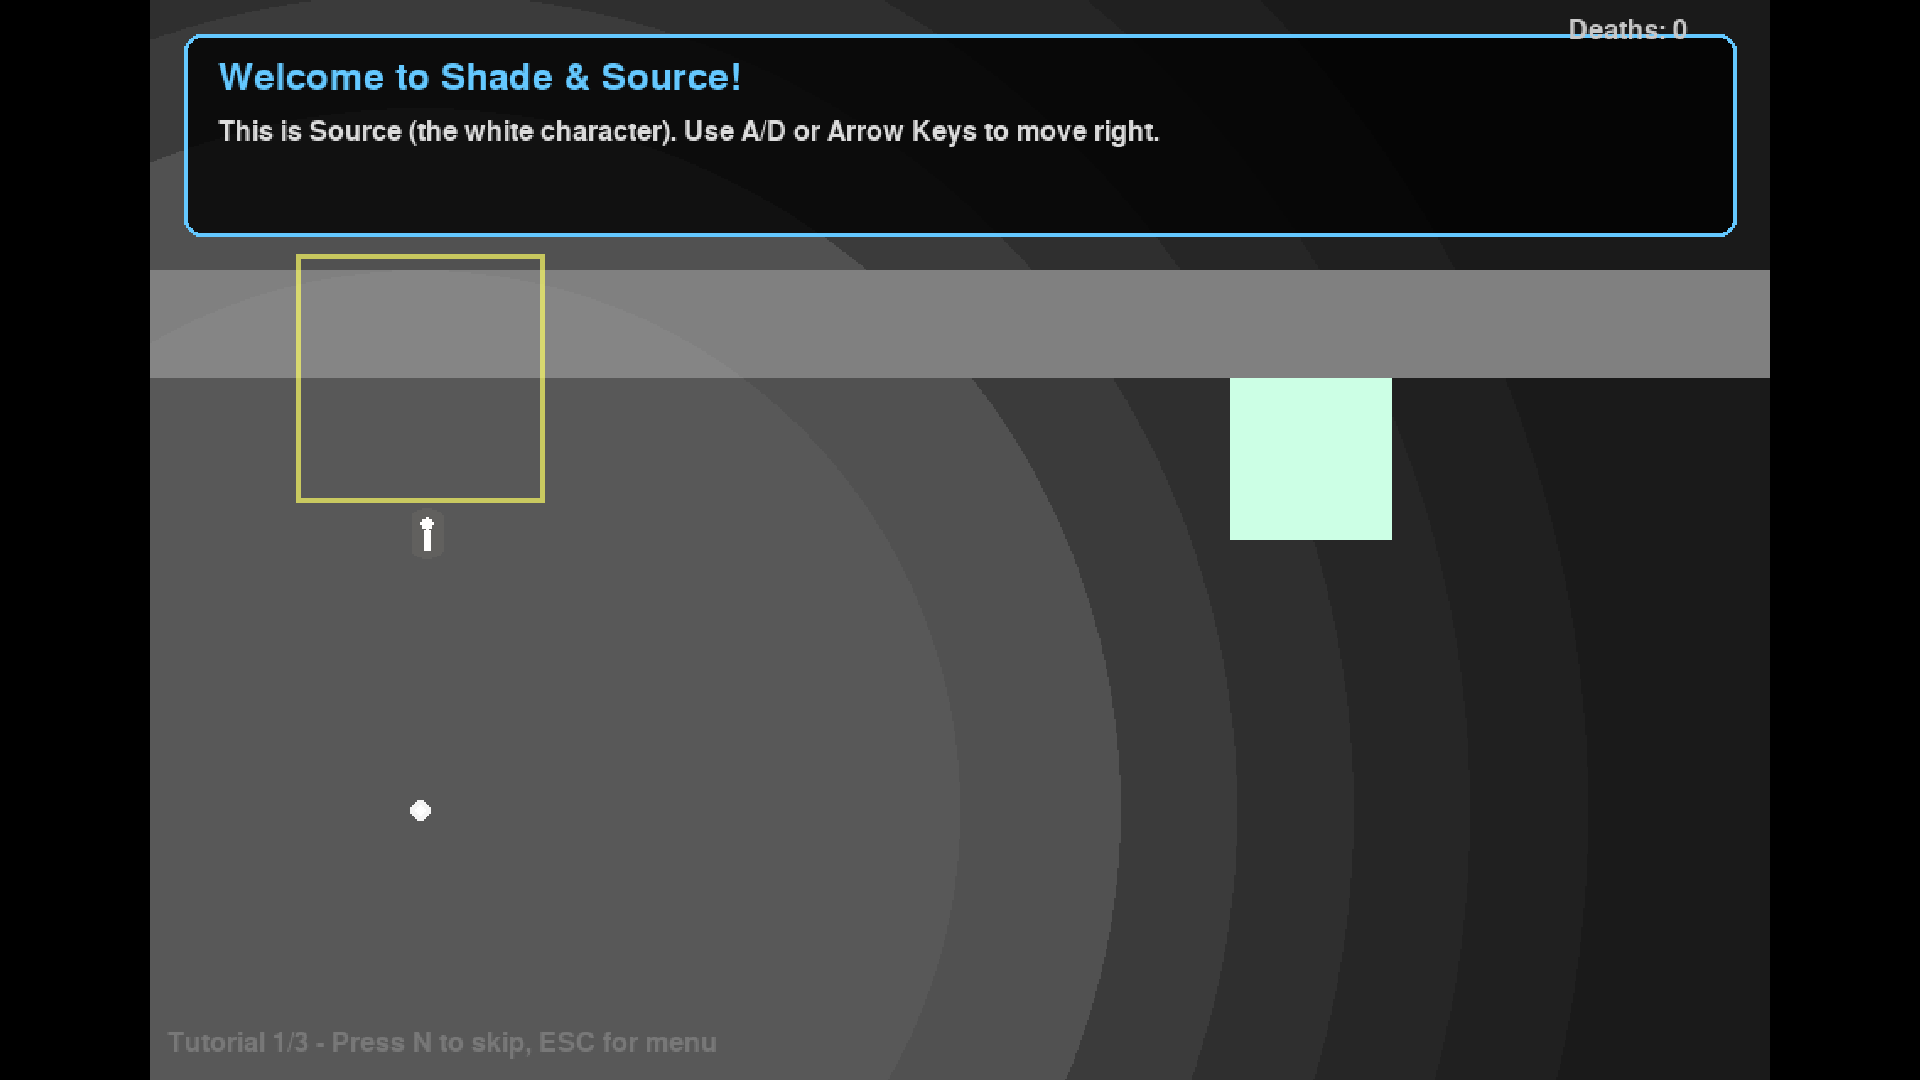
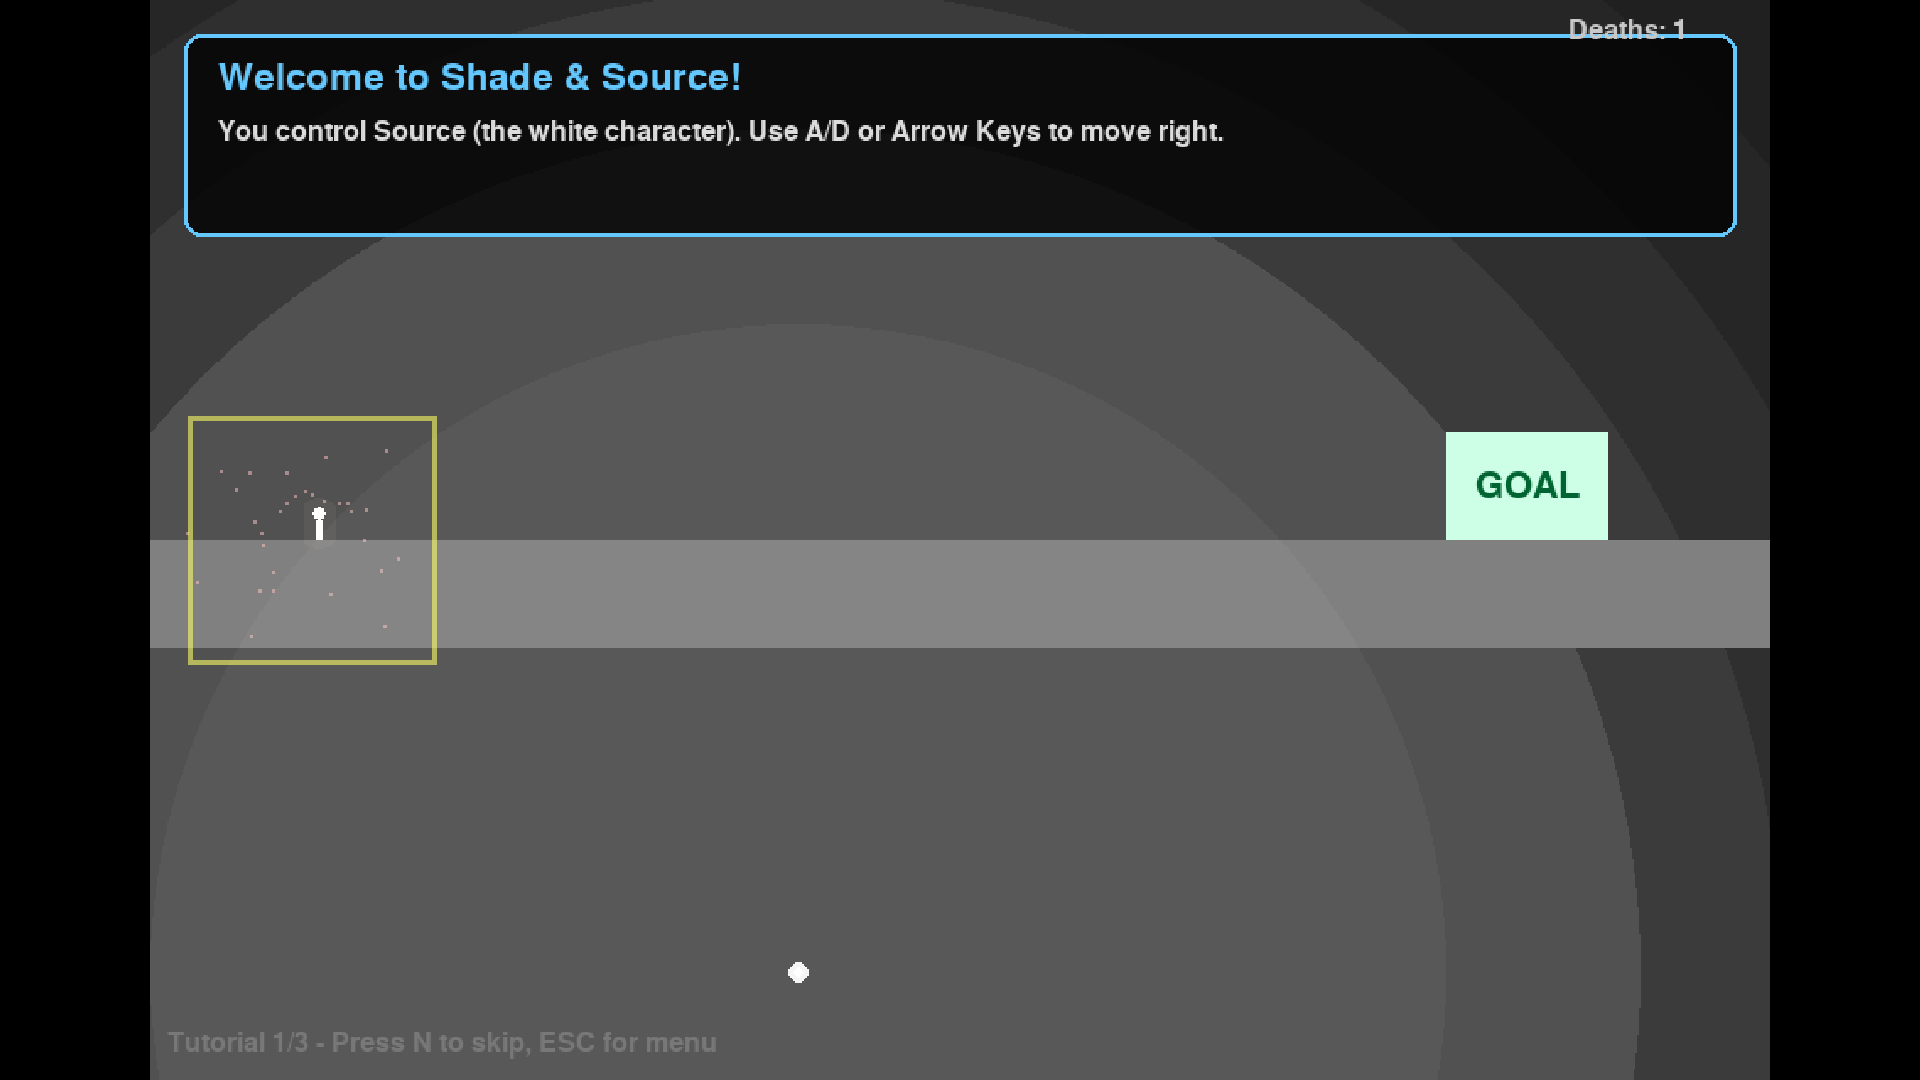
Fix tutorial levels - platforms properly positioned, goals labeled, Source on solid ground

diff --git a/game/tutorial_levels.py b/game/tutorial_levels.py
@@ -23,17 +23,22 @@ class TutorialLevel1:
     
     def __init__(self):
         self.platforms = [
-            {'x': 0, 'y': 5, 'width': 30, 'height': 2},   # Ground
+            {'x': 0, 'y': 10, 'width': 30, 'height': 2},   # Ground platform
         ]
         
-        self.source = Source(5, 7)
-        self.light = LightSource(5, 15, 10)  # Small light directly above
+        # Source starts ON the platform (y = platform_top - source_height)
+        # Platform is at y=10, height=2, so top is at y=10
+        # Source height is 0.625, so Source.y should be 10 - 0.625 = 9.375
+        # But we'll position at 9.5 for safety
+        self.source = Source(3, 9.5)
+        self.light = LightSource(12, 18, 12)  # Light above, larger radius
         self.shade = Shade(-2)
         
         self.projector = ShadowProjector()
         self.death_detector = DeathDetector()
         
-        self.goal = {'x': 20, 'y': 7, 'width': 3, 'height': 3}
+        # Goal is on the platform, at the right side
+        self.goal = {'x': 24, 'y': 8, 'width': 3, 'height': 2}
         
         self.deaths = 0
         self.start_time = pygame.time.get_ticks()
@@ -43,19 +48,19 @@ class TutorialLevel1:
         self.tutorial = TutorialManager()
         self.tutorial.add_step(
             "Welcome to Shade & Source!",
-            "This is Source (the white character). Use A/D or Arrow Keys to move right.",
+            "You control Source (the white character). Use A/D or Arrow Keys to move right.",
             lambda: self.source.x > 10,
-            highlight={'x': 3, 'y': 5, 'width': 4, 'height': 4, 'grid': True}
+            highlight={'x': 1, 'y': 8, 'width': 4, 'height': 4, 'grid': True}
         )
         self.tutorial.add_step(
             "Stay in the Light",
-            "Source must stay in the light circle to survive. Try moving outside the light.",
-            lambda: self.deaths > 0,
-            highlight={'x': self.light.x - 10, 'y': self.light.y - 10, 'width': 20, 'height': 20, 'grid': True}
+            "Source dies in shadow! Stay in the glowing light circle. Try moving to the edge to see what happens.",
+            lambda: self.source.x > 18,
+            highlight={'x': self.light.x - 12, 'y': self.light.y - 12, 'width': 24, 'height': 24, 'grid': True}
         )
         self.tutorial.add_step(
-            "Reach the Goal",
-            "Now reach the green goal area while staying in light. Press R to reset if you die.",
+            "Reach the GOAL",
+            "The GREEN area is the GOAL. Reach it to complete the tutorial! Press R to reset if needed.",
             lambda: self.completed,
             highlight={'x': self.goal['x'], 'y': self.goal['y'], 'width': self.goal['width'], 'height': self.goal['height'], 'grid': True}
         )
@@ -123,7 +128,7 @@ class TutorialLevel1:
         # Light source
         self.light.render(surface)
         
-        # Goal
+        # Goal with label
         goal_rect = pygame.Rect(
             self.goal['x'] * GRID_UNIT_SIZE,
             self.goal['y'] * GRID_UNIT_SIZE,
@@ -131,6 +136,15 @@ class TutorialLevel1:
             self.goal['height'] * GRID_UNIT_SIZE
         )
         pygame.draw.rect(surface, COLOR_GOAL, goal_rect)
+        
+        # Add "GOAL" text on the goal
+        goal_font = pygame.font.Font(None, 32)
+        goal_text = goal_font.render("GOAL", True, (0, 100, 50))
+        text_rect = goal_text.get_rect(center=(
+            (self.goal['x'] + self.goal['width']/2) * GRID_UNIT_SIZE,
+            (self.goal['y'] + self.goal['height']/2) * GRID_UNIT_SIZE
+        ))
+        surface.blit(goal_text, text_rect)
         
         # Entities
         self.source.render(surface)
@@ -165,20 +179,22 @@ class TutorialLevel2:
     
     def __init__(self):
         self.platforms = [
-            {'x': 0, 'y': 8, 'width': 15, 'height': 2},   # Left platform
-            {'x': 20, 'y': 8, 'width': 10, 'height': 2},  # Right platform
+            {'x': 0, 'y': 12, 'width': 15, 'height': 2},   # Left platform
+            {'x': 18, 'y': 12, 'width': 12, 'height': 2},  # Right platform
         ]
         
         self.shadow_floor = {'x': 0, 'y': -2, 'width': 30, 'height': 2}
         
-        self.source = Source(5, 10)
-        self.light = LightSource(7, 18, 14)
+        # Source starts ON the left platform
+        self.source = Source(5, 11.5)
+        self.light = LightSource(10, 18, 16)
         self.shade = Shade(self.shadow_floor['y'])
         
         self.projector = ShadowProjector()
         self.death_detector = DeathDetector()
         
-        self.goal = {'x': 22, 'y': 10, 'width': 3, 'height': 3}
+        # Goal is on the right platform
+        self.goal = {'x': 24, 'y': 10, 'width': 3, 'height': 2}
         
         self.deaths = 0
         self.start_time = pygame.time.get_ticks()
@@ -288,7 +304,7 @@ class TutorialLevel2:
         # Light source
         self.light.render(surface)
         
-        # Goal
+        # Goal with label
         goal_rect = pygame.Rect(
             self.goal['x'] * GRID_UNIT_SIZE,
             self.goal['y'] * GRID_UNIT_SIZE,
@@ -296,6 +312,15 @@ class TutorialLevel2:
             self.goal['height'] * GRID_UNIT_SIZE
         )
         pygame.draw.rect(surface, COLOR_GOAL, goal_rect)
+        
+        # Add "GOAL" text
+        goal_font = pygame.font.Font(None, 32)
+        goal_text = goal_font.render("GOAL", True, (0, 100, 50))
+        text_rect = goal_text.get_rect(center=(
+            (self.goal['x'] + self.goal['width']/2) * GRID_UNIT_SIZE,
+            (self.goal['y'] + self.goal['height']/2) * GRID_UNIT_SIZE
+        ))
+        surface.blit(goal_text, text_rect)
         
         # Connection line
         self.connection.render(surface, self.source.x, self.source.y, self.shade.x, self.shade.y)
@@ -334,13 +359,14 @@ class TutorialLevel3:
     
     def __init__(self):
         self.platforms = [
-            {'x': 0, 'y': 8, 'width': 12, 'height': 2},   # Left platform
-            {'x': 18, 'y': 8, 'width': 12, 'height': 2},  # Right platform
+            {'x': 0, 'y': 10, 'width': 12, 'height': 2},   # Left platform
+            {'x': 18, 'y': 10, 'width': 12, 'height': 2},  # Right platform
         ]
         
         self.shadow_floor = {'x': 0, 'y': -2, 'width': 30, 'height': 2}
         
-        self.source = Source(5, 10)
+        # Source starts ON the left platform
+        self.source = Source(5, 9.5)
         self.light = LightSource(10, 18, 16)
         self.shade = Shade(self.shadow_floor['y'])
         
@@ -352,7 +378,8 @@ class TutorialLevel3:
         self.bridge_active = False
         self.bridge_animation = BridgeSpawnAnimation()
         
-        self.goal = {'x': 22, 'y': 10, 'width': 3, 'height': 3}
+        # Goal is on the right platform
+        self.goal = {'x': 23, 'y': 8, 'width': 4, 'height': 2}
         
         self.deaths = 0
         self.start_time = pygame.time.get_ticks()
@@ -407,7 +434,7 @@ class TutorialLevel3:
         # Check laser gate
         if self.laser_gate.check_shade_collision(self.shade):
             if not self.bridge_active and not self.bridge_animation.animating:
-                self.bridge = {'x': 12, 'y': 8, 'width': 6, 'height': 2}
+                self.bridge = {'x': 12, 'y': 10, 'width': 6, 'height': 2}
                 self.bridge_animation.start(self.bridge)
                 # Emit particles
                 self.particles.emit(
@@ -505,7 +532,7 @@ class TutorialLevel3:
             )
             pygame.draw.rect(surface, (160, 160, 160), rect)
         
-        # Goal
+        # Goal with label
         goal_rect = pygame.Rect(
             self.goal['x'] * GRID_UNIT_SIZE,
             self.goal['y'] * GRID_UNIT_SIZE,
@@ -513,6 +540,15 @@ class TutorialLevel3:
             self.goal['height'] * GRID_UNIT_SIZE
         )
         pygame.draw.rect(surface, COLOR_GOAL, goal_rect)
+        
+        # Add "GOAL" text
+        goal_font = pygame.font.Font(None, 32)
+        goal_text = goal_font.render("GOAL", True, (0, 100, 50))
+        text_rect = goal_text.get_rect(center=(
+            (self.goal['x'] + self.goal['width']/2) * GRID_UNIT_SIZE,
+            (self.goal['y'] + self.goal['height']/2) * GRID_UNIT_SIZE
+        ))
+        surface.blit(goal_text, text_rect)
         
         # Connection line
         self.connection.render(surface, self.source.x, self.source.y, self.shade.x, self.shade.y)
